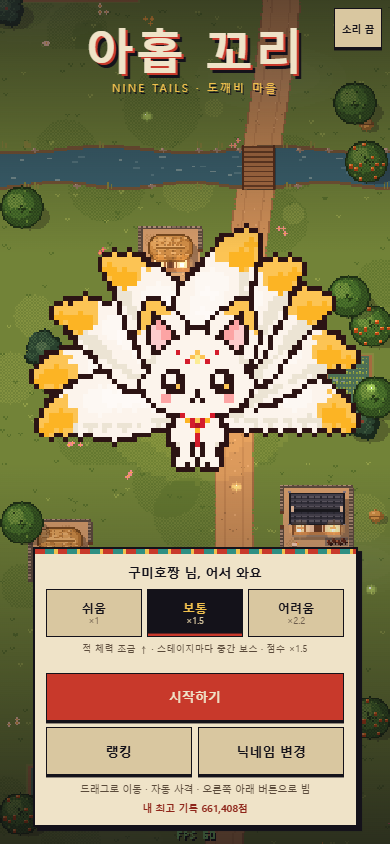
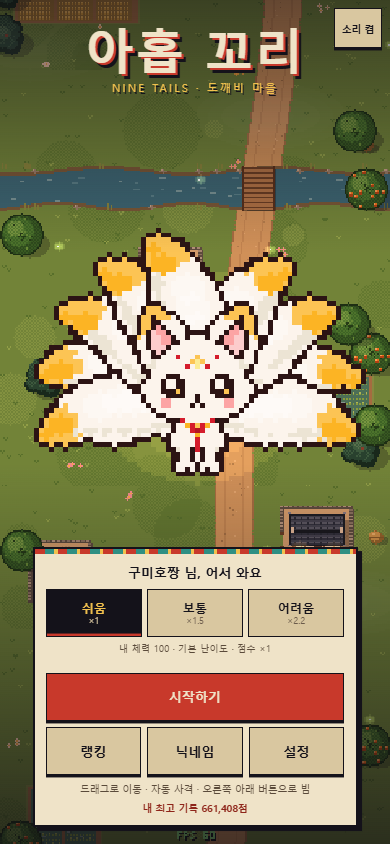
난이도별 체력 차등, 설정 메뉴, 디버그 판 기록 제외
- 최대 체력 쉬움 100 / 보통 80 / 어려움 60
- 회복은 최대 체력 비율(여우 떡 20%, 스테이지 클리어 30%), 저체력 경고는 30% 이하
- 설정 메뉴(타이틀·일시정지): 효과음·배경음 볼륨, 진동 켬/끔, 빔 버튼 좌우(왼쪽이면 꼬리·구슬 표시는 오른쪽)
- ?debug=1 판은 로컬·온라인 랭킹 어디에도 기록하지 않음
- README 갱신

diff --git a/README.md b/README.md
@@ -22,10 +22,21 @@
 |---|---|---|
 | 이동 | 화면 아무 곳이나 드래그 (손가락이 움직인 만큼 따라 움직여서 캐릭터가 손가락에 가리지 않음) | 방향키 / WASD, Shift = 정밀 이동 |
 | 사격 | 자동 | 자동 |
-| 빔 | 오른쪽 아래 둥근 버튼 (게이지가 차면 금색) | X 또는 Space |
+| 빔 | 오른쪽 아래 둥근 버튼, 게이지가 차면 금색 (설정에서 왼쪽으로 바꿀 수 있음) | X 또는 Space |
 | 일시정지 | 오른쪽 위 ‖ 버튼 | P / Esc |
 
-앱이 백그라운드로 가거나 창이 포커스를 잃으면 자동으로 일시정지합니다. 효과음과 배경음은 Web Audio로 합성하며, 소리 켬/끔 설정은 저장됩니다. 지원하는 기기에서는 피격·진화·보스 격파 때 진동합니다.
+앱이 백그라운드로 가거나 창이 포커스를 잃으면 자동으로 일시정지합니다. 효과음과 배경음은 Web Audio로 합성합니다. 지원하는 기기에서는 피격·진화·보스 격파 때 진동합니다.
+
+### 설정 (타이틀 · 일시정지 화면의 "설정")
+
+| 항목 | 기본값 | 설명 |
+|---|---|---|
+| 효과음 | 80 | 0~100. 손을 떼면 효과음으로 크기를 들려줍니다 |
+| 배경음 | 70 | 0~100. 손을 떼면 짧은 가락으로 크기를 들려줍니다 |
+| 진동 | 켬 | 끄면 피격·진화 때 진동하지 않습니다 |
+| 빔 버튼 | 오른쪽 | 왼쪽으로 바꾸면 꼬리·구슬 표시가 오른쪽 아래로 옮겨갑니다(왼손잡이용) |
+
+설정은 기기에 저장됩니다. 소리 전체 켬/끔은 타이틀 오른쪽 위와 일시정지 화면의 "소리" 버튼으로 합니다.
 
 ## 캐릭터
 
@@ -77,6 +88,7 @@
 
 | | 쉬움 | 보통 | 어려움 |
 |---|---|---|---|
+| **내 체력** | **100** | **80** | **60** |
 | 적 체력 | ×1 | ×1.25 | ×1.6 |
 | 보스·중간 보스 체력 | ×1 | ×1.2 | ×1.5 |
 | 중간 보스 | 없음 | 스테이지마다 1마리 | 스테이지마다 1마리 |
@@ -92,14 +104,16 @@
 
 ## 체력과 게임오버
 
-| 항목 | 값 |
-|---|---|
-| 최대 체력 | 100 |
-| 적 탄에 맞음 | −10 |
-| 적·보스와 부딪힘, 두억시니 손에 깔림, 장산범에 덮쳐짐 | −20 |
-| 맞은 뒤 무적 | 1초 (깜빡임 · 화면 가장자리 붉게 · 진동) |
-| 여우 떡 (가끔 떨어짐, 불가사리·중간 보스는 반드시 떨어뜨림) | +20 |
-| 스테이지 클리어 | +30 |
+| 항목 | 쉬움 | 보통 | 어려움 |
+|---|---|---|---|
+| 최대 체력 | 100 | 80 | 60 |
+| 적 탄에 맞음 | −10 | −10 | −10 |
+| 적·보스와 부딪힘, 두억시니 손에 깔림, 장산범에 덮쳐짐 | −20 | −20 | −20 |
+| 여우 떡 (최대 체력의 20%, 가끔 떨어짐 · 불가사리·중간 보스는 반드시) | +20 | +16 | +12 |
+| 스테이지 클리어 (최대 체력의 30%) | +30 | +24 | +18 |
+| 저체력 경고 (최대 체력의 30% 이하, 체력바 깜빡임 · 화면 가장자리 붉게) | 30 | 24 | 18 |
+
+맞은 뒤에는 1초 동안 무적입니다(깜빡임 · 화면 가장자리 붉게 · 진동).
 
 - 맞아도 꼬리와 구슬은 줄지 않습니다. 한 판 안에서 스킬을 전부 맛보게 하려는 설계입니다.
 - 체력이 0이 되면 게임오버 화면으로 넘어갑니다. 점수, 난이도, 도달 스테이지, 꼬리 수, 최대 콤보, 플레이 시간, 이번 순위와 다시하기/랭킹/처음으로 버튼이 나옵니다.
@@ -214,13 +228,13 @@ grant select on public.leaderboard to anon;
 
 ### 한계 — 점수 조작
 
-점수는 브라우저가 계산해서 보냅니다. 마음먹으면 개발자 도구로 조작한 점수를 올릴 수 있습니다. check 제약으로 말이 안 되는 값(음수, 1천만 점 초과, 꼬리 10개 등)만 막습니다. `?debug=1`의 무적·보스 소환으로 한 판도 지금은 그대로 기록됩니다. 친구끼리 겨루는 용도로는 충분하지만, 공개 대회라면 서버 쪽 검증이 따로 필요합니다.
+점수는 브라우저가 계산해서 보냅니다. 마음먹으면 개발자 도구로 조작한 점수를 올릴 수 있습니다. check 제약으로 말이 안 되는 값(음수, 1천만 점 초과, 꼬리 10개 등)만 막습니다. `?debug=1`(무적·보스 소환 가능)로 한 판은 로컬·온라인 어디에도 기록하지 않습니다. 친구끼리 겨루는 용도로는 충분하지만, 공개 대회라면 서버 쪽 검증이 따로 필요합니다.
 
 Supabase 무료 프로젝트는 한동안 요청이 없으면 일시정지될 수 있습니다. 그동안에는 오프라인 랭킹으로 대체됩니다.
 
 ## 디버그 모드
 
-주소 뒤에 `?debug=1`을 붙이면 켜집니다. 화면 아래에 fps가 표시되고, 게임 중에 다음 키를 쓸 수 있습니다.
+주소 뒤에 `?debug=1`을 붙이면 켜집니다. 화면 아래에 fps가 표시되고, 게임 중에 다음 키를 쓸 수 있습니다. 디버그 모드로 한 판은 랭킹에 기록되지 않습니다.
 
 | 키 | 기능 |
 |---|---|
